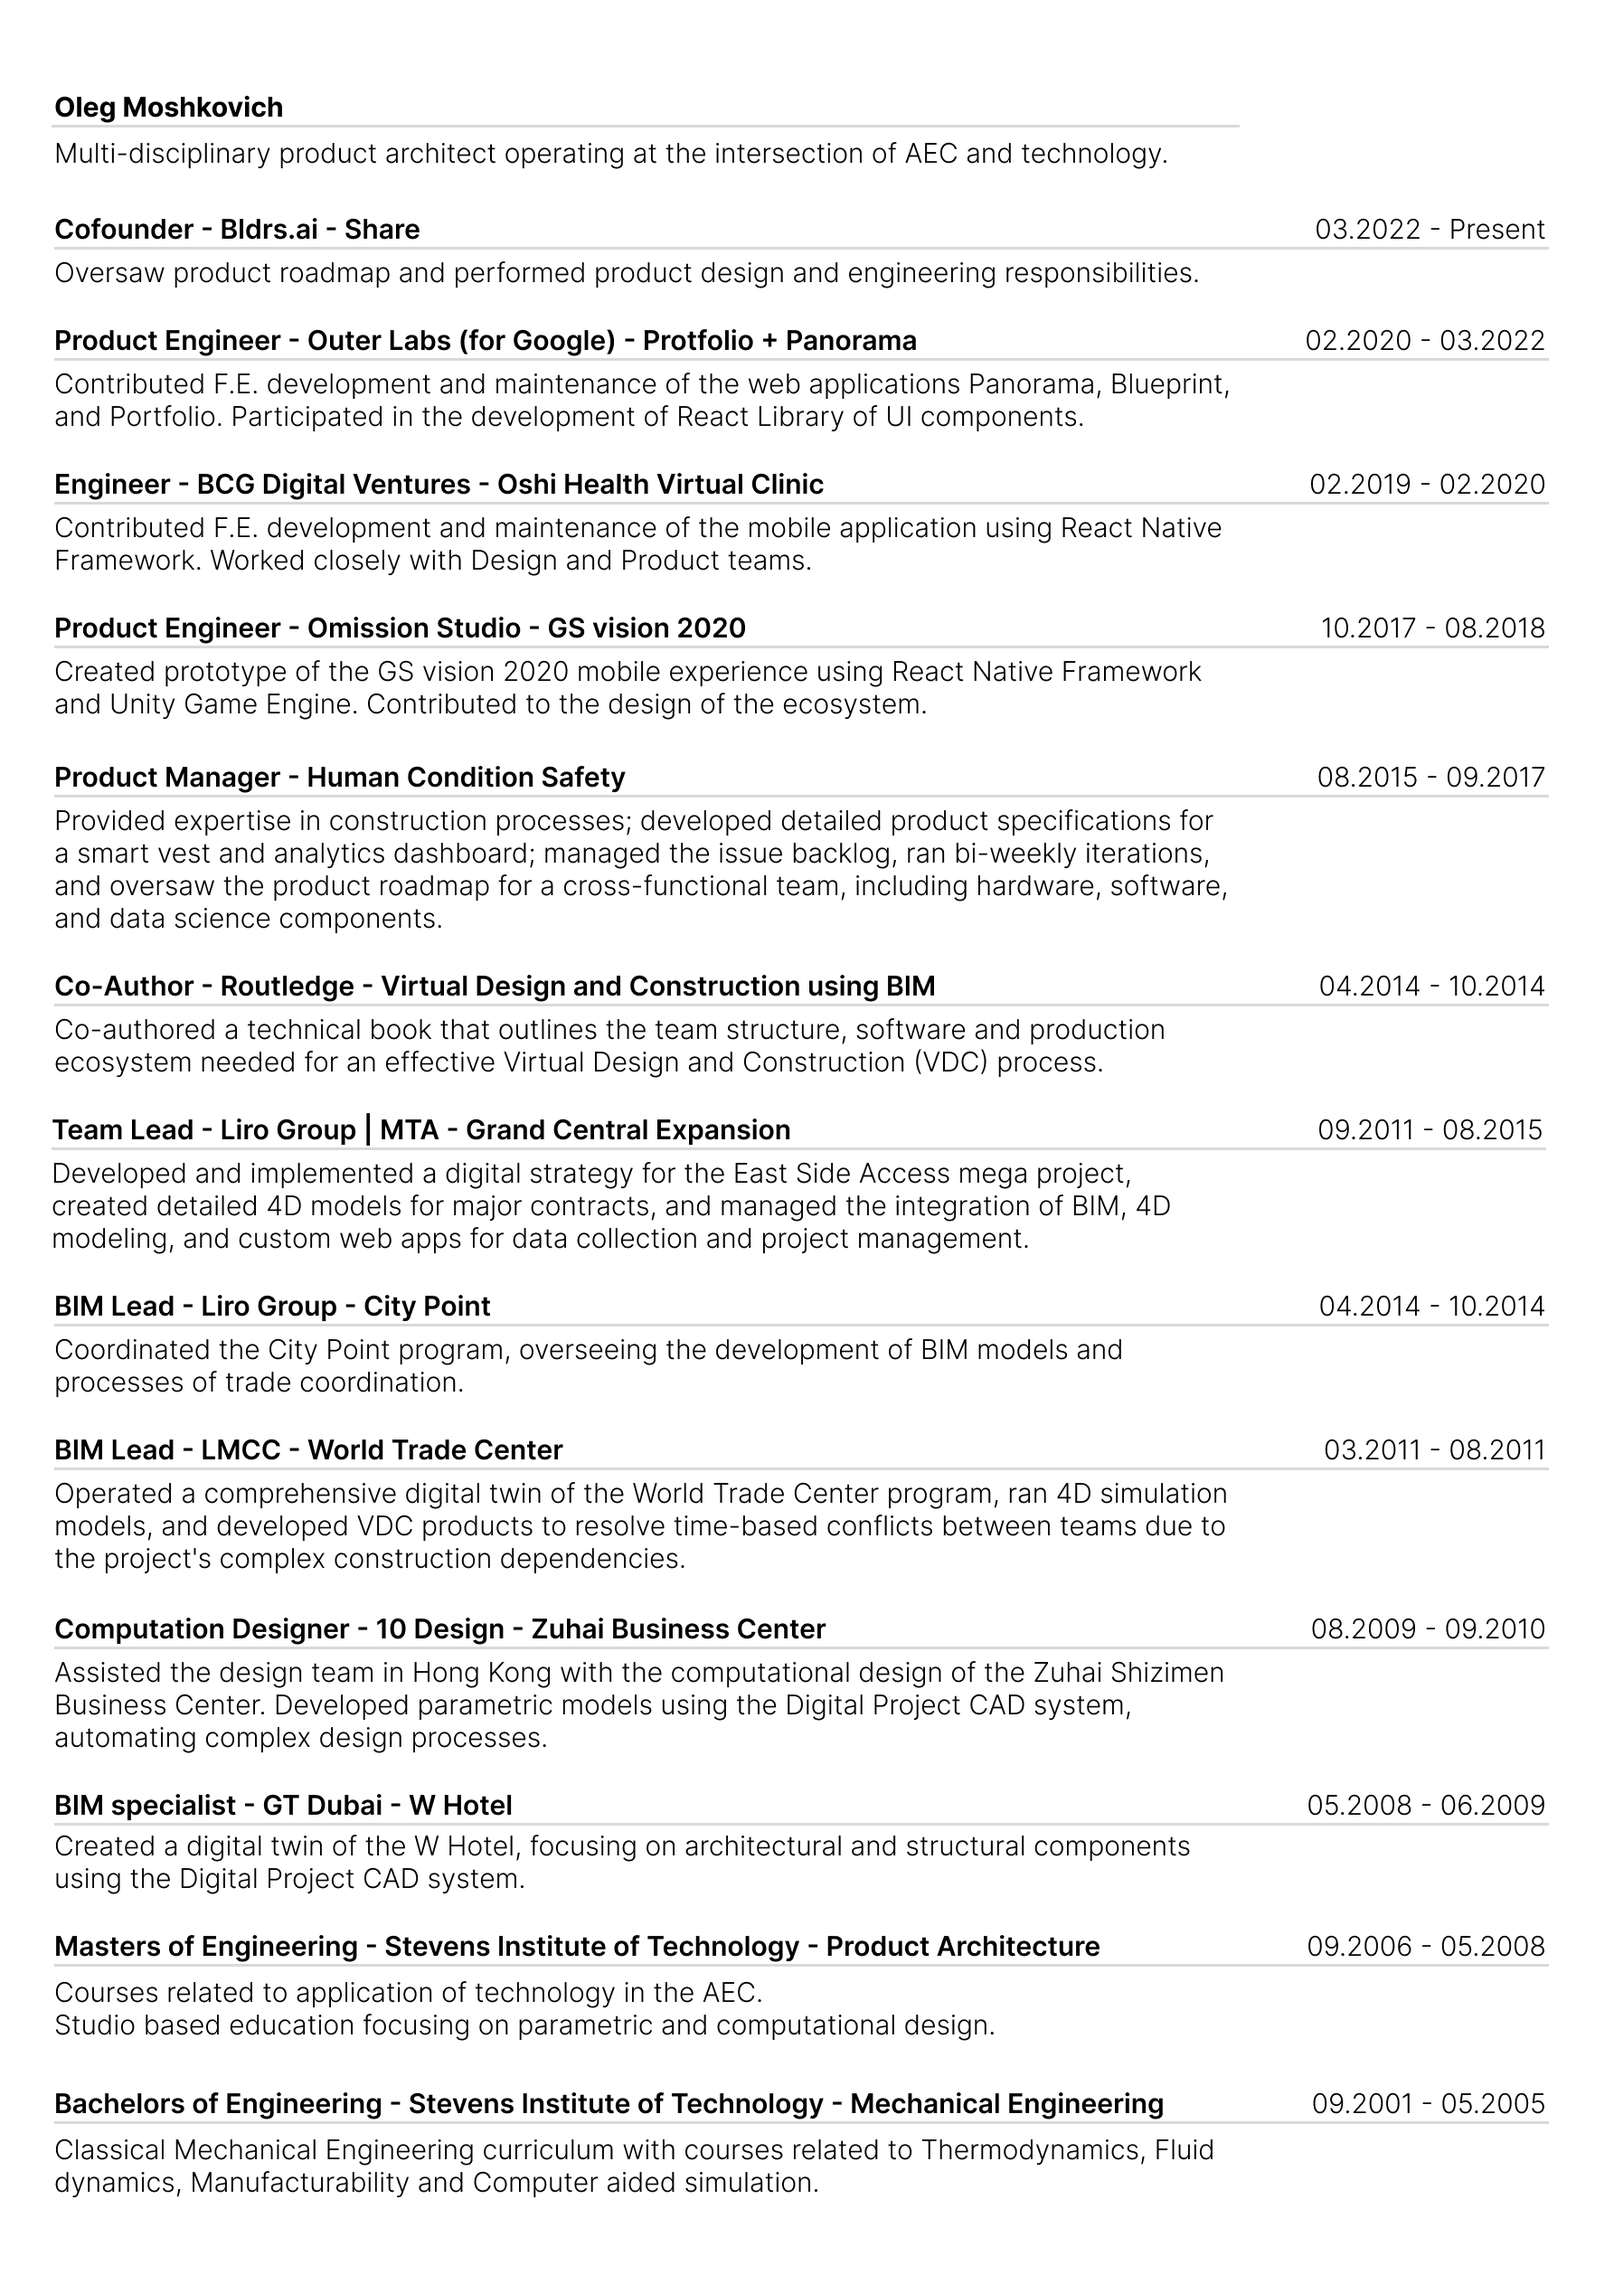
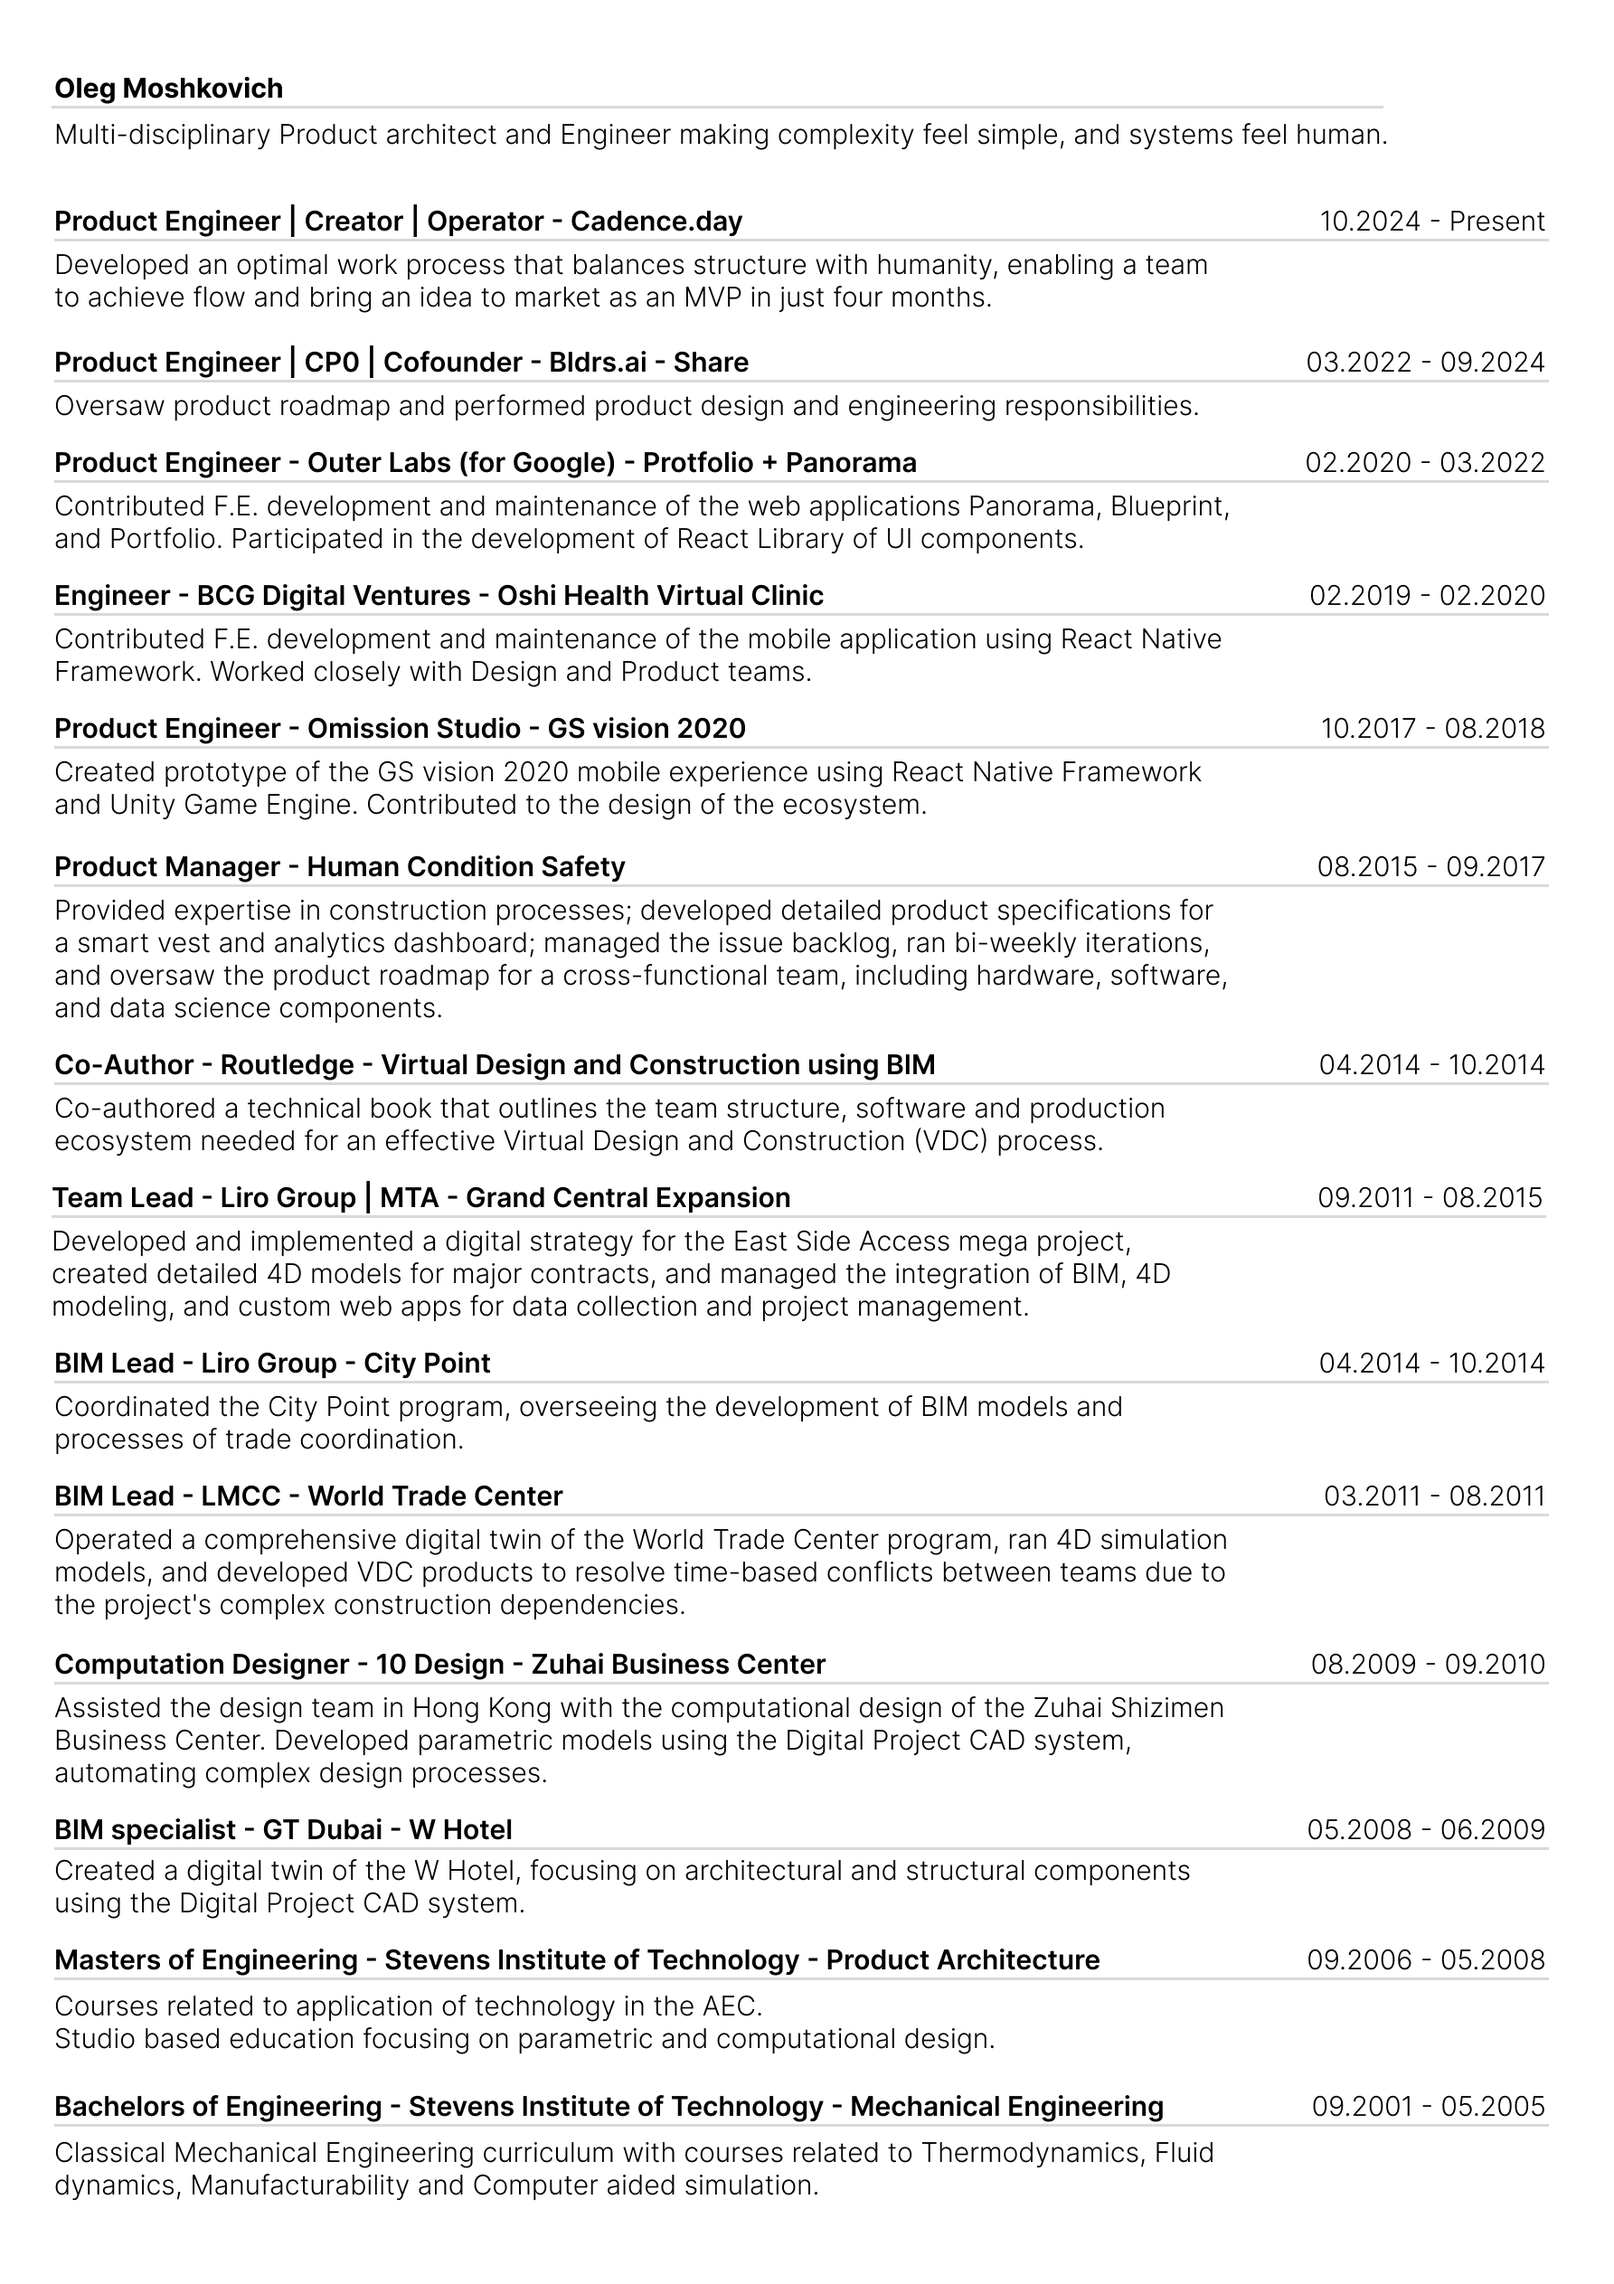
Update content and image
- Update text in Summarized.jsx from "realization" to "construction"
- Update public/images/10.png

🤖 Generated with [Claude Code](https://claude.ai/code)

diff --git a/src/Components/Summarized.jsx b/src/Components/Summarized.jsx
@@ -39,7 +39,7 @@ function Summarized() {
 Oleg Moshkovich
 <br/>
 <br/>
-I come from a mechanical engineering background, followed by a master's in product architecture, a studio-based education centered on implementing computation into the design and realization of the built environment. 
+I come from a mechanical engineering background, followed by a master's in product architecture, a studio-based education centered on implementing computation into the design and construction of the built environment. 
 <br/>
 After masters, I moved into architectural design, focusing primarily on complex geometry requiring rationalization at mega scale. 
 <br/>
